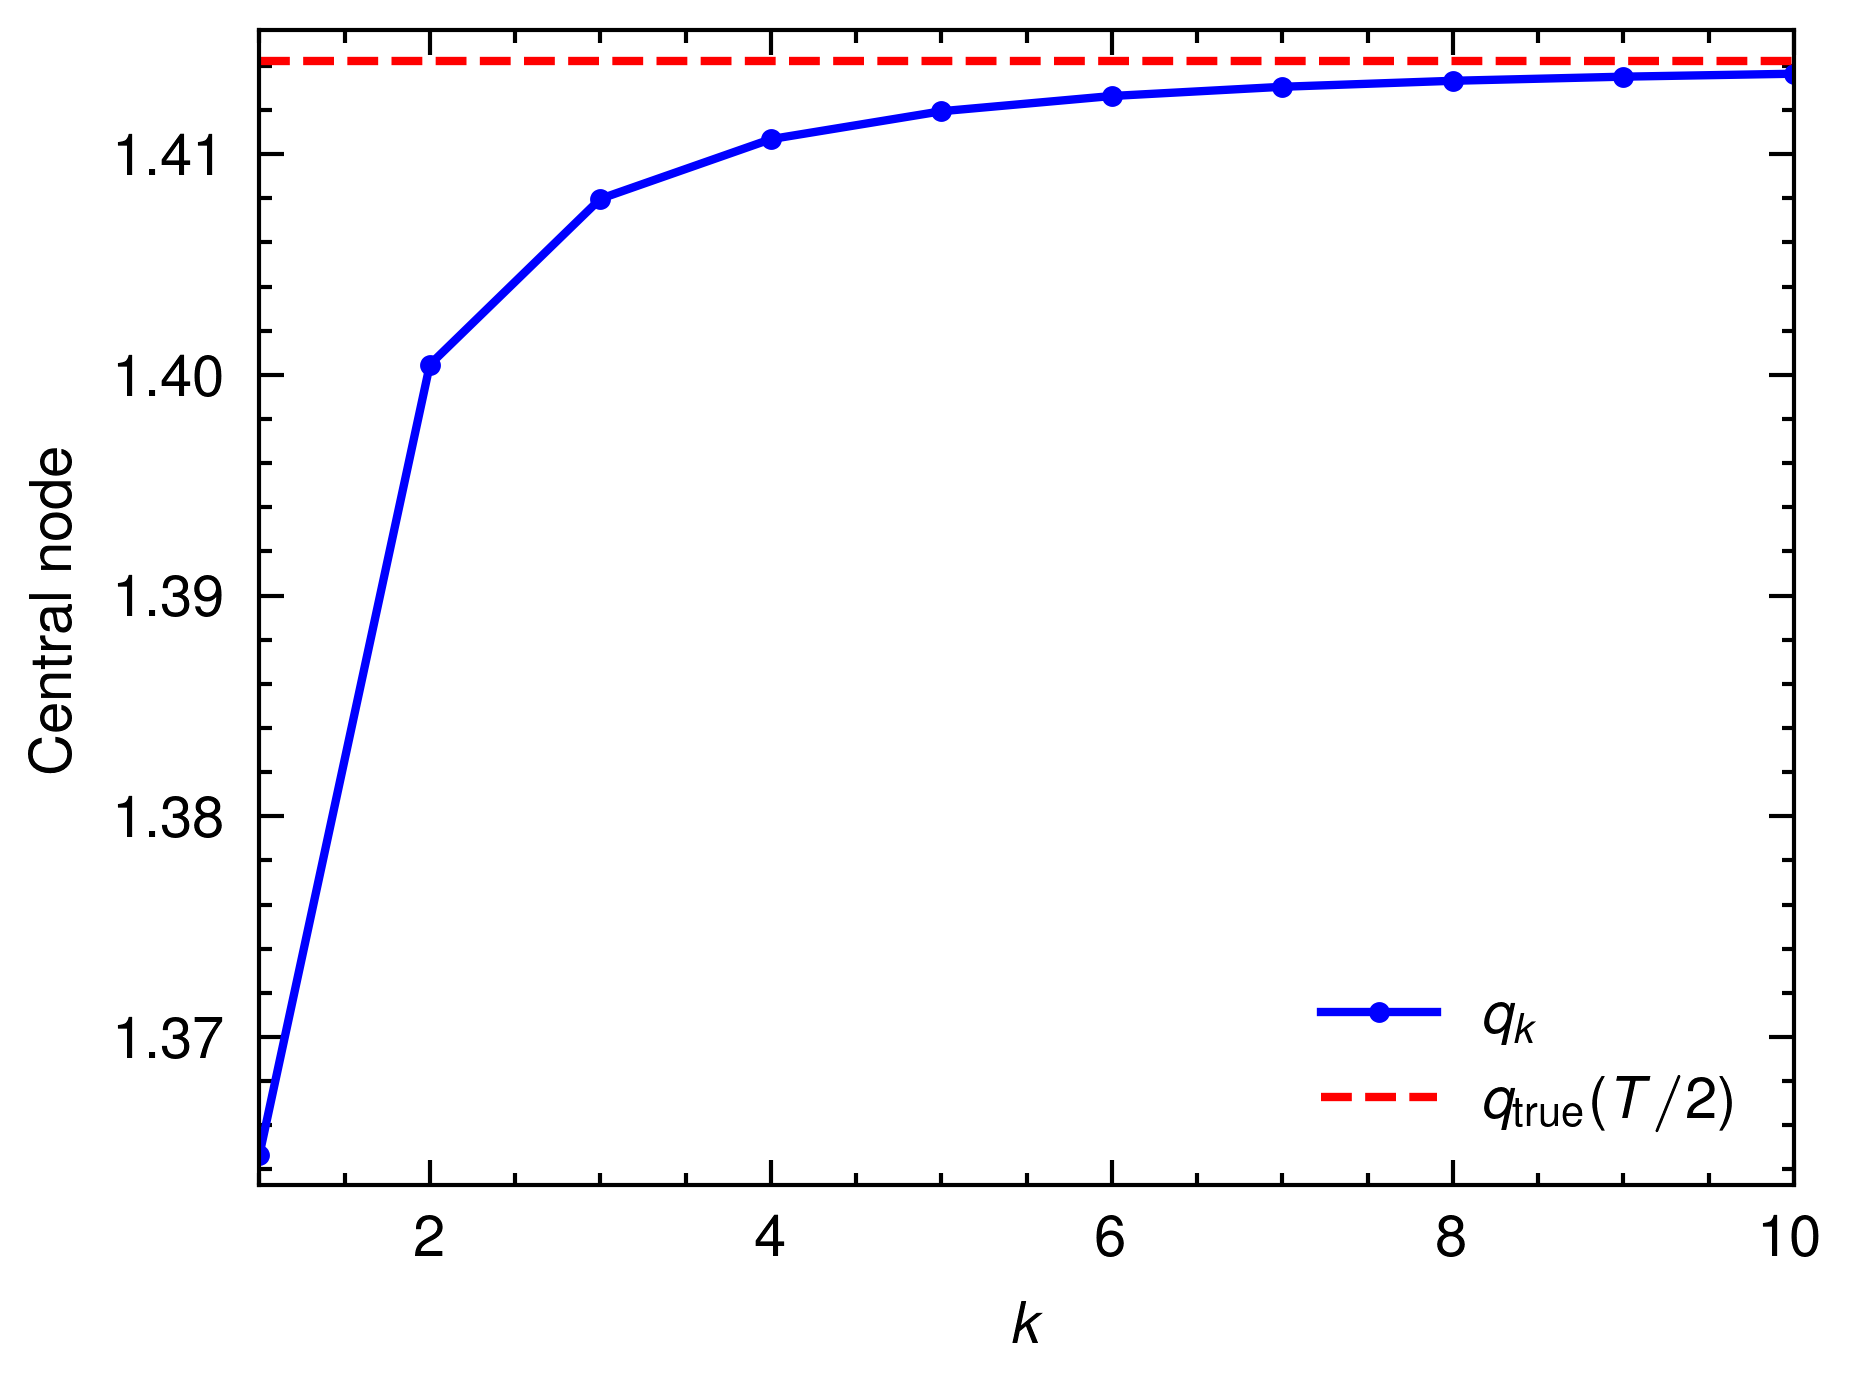
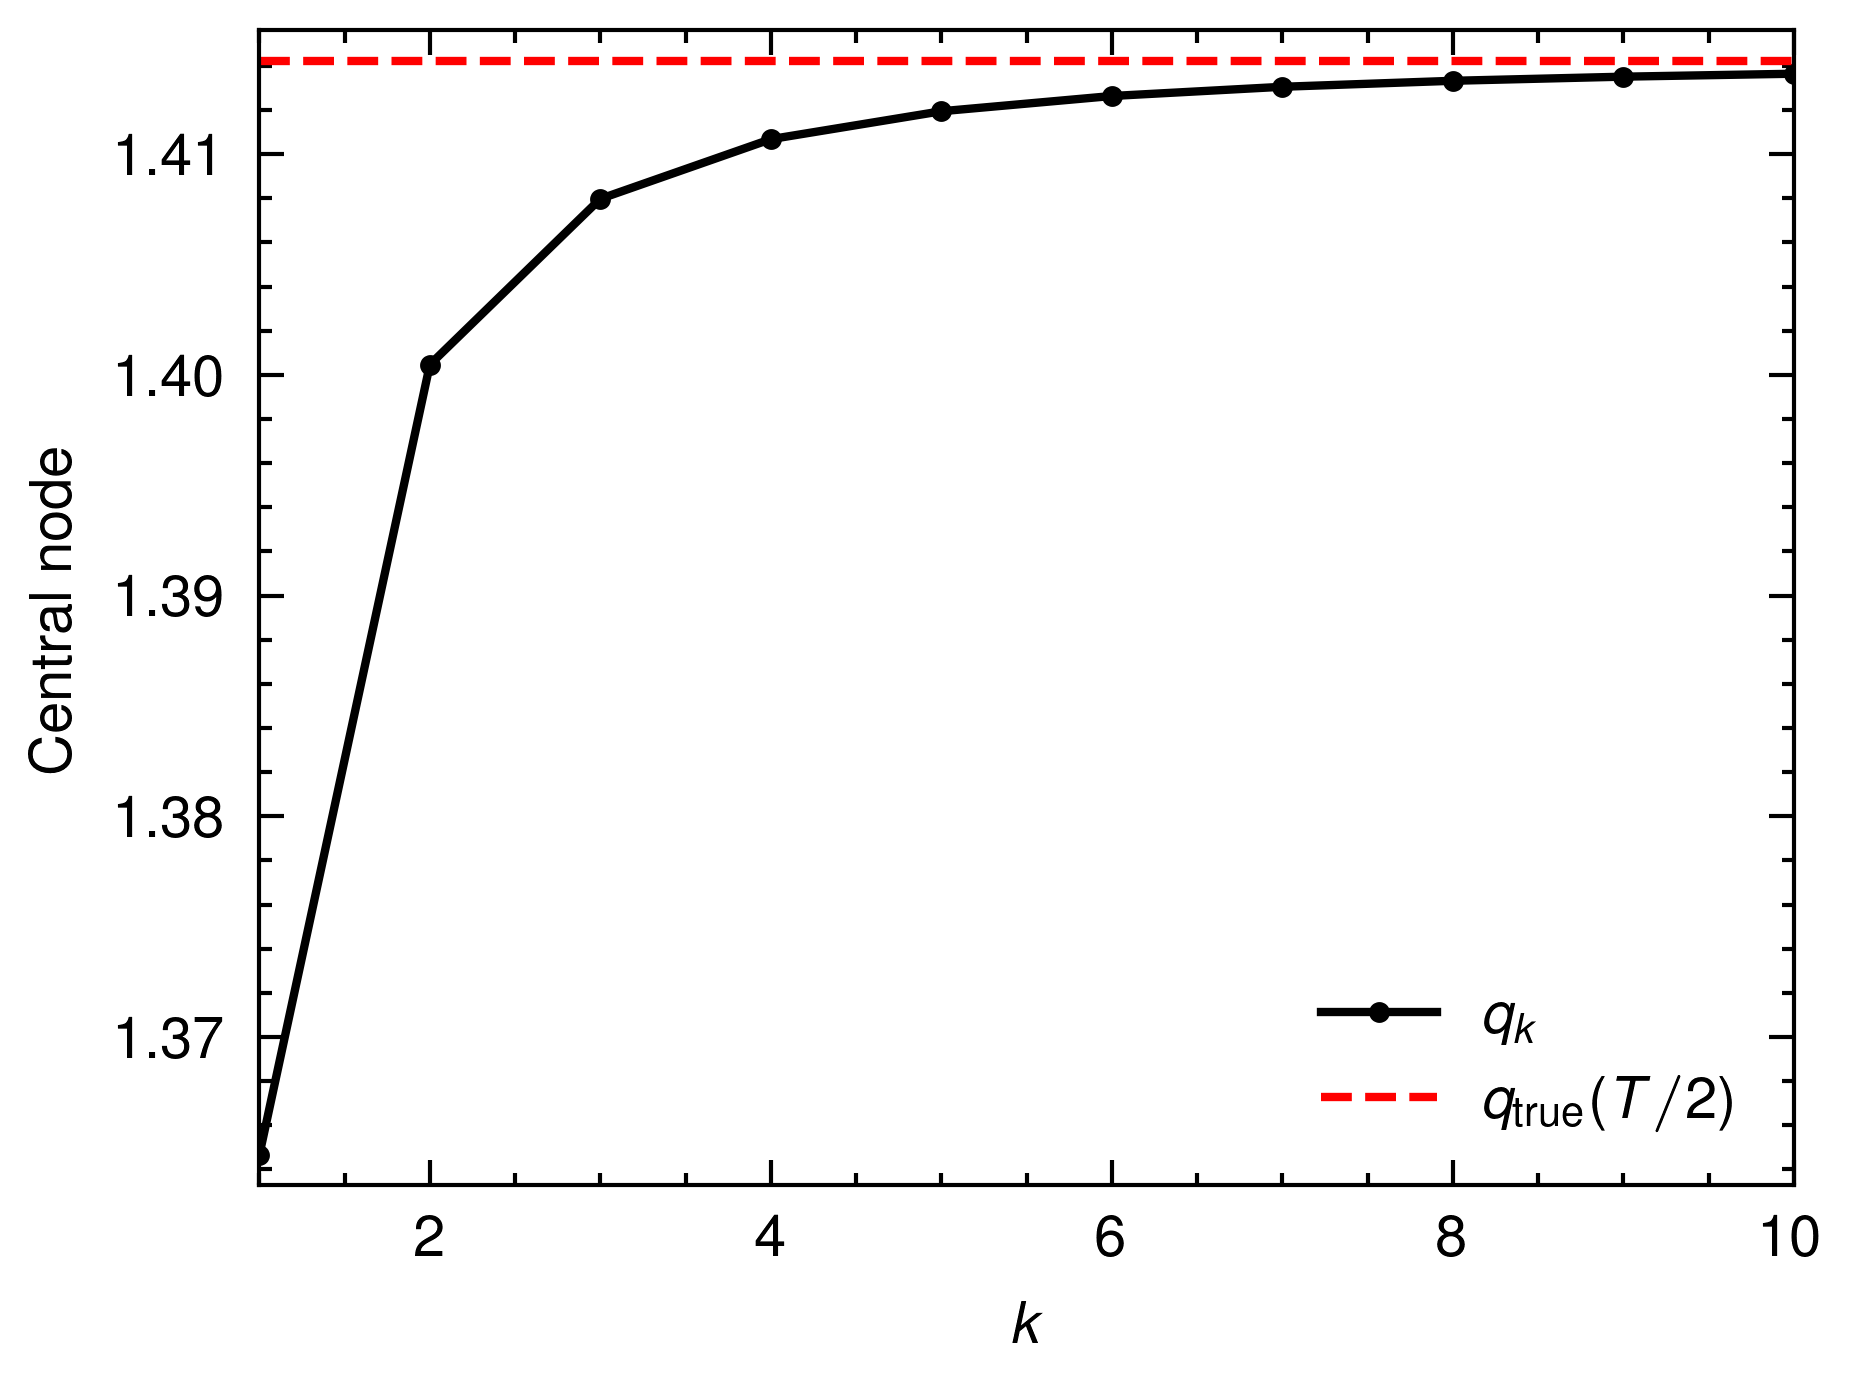
Theoretical node for Harmonic oscillator

diff --git a/theory/src/main.rs b/theory/src/main.rs
@@ -29,7 +29,6 @@ fn main() {
         .unwrap();
 
     let omega_t = PI / 2f64;
-
     let k = seq(1, 10, 1);
     let y_hat = k.fmap(|x| one_least_harmonic(x, omega_t));
     let y_true = k.fmap(|_| 1f64 / (omega_t / 2f64).cos()); 
@@ -41,6 +40,27 @@ fn main() {
     dg.write_parquet("data2.parquet", CompressionOptions::Uncompressed)
         .unwrap();
 
+    let A = 0f64;
+    let B = 20f64;
+    let omega = 1f64;
+    let T = PI / 2f64;
+    let t = linspace(0, PI / 2f64, 2usize.pow(10) + 1);
+    let mut y_true = true_harmonic(t.len()-2, omega, T, A, B);
+    y_true.push(B);
+    y_true.insert(0, A);
+    let N_vec = (1 .. 5).map(|n| 2usize.pow(n) - 1).collect::<Vec<_>>();
+
+    let mut dh = DataFrame::new(vec![]);
+    dh.push("t", Series::new(t));
+    dh.push("y_true", Series::new(y_true));
+    for (i, N) in N_vec.into_iter().enumerate() {
+        let mut y_i = least_harmonic(N, omega, T, A, B);
+        y_i.push(B);
+        y_i.insert(0, A);
+        dh.push(&format!("y_{}", i+1), Series::new(y_i));
+    }
+    dh.print();
+    dh.write_parquet("data3.parquet", CompressionOptions::Uncompressed).unwrap();
 }
 
 fn harmonic_half(x: f64) -> f64 {
@@ -75,9 +95,9 @@ fn least_harmonic(N: usize, omega: f64, T: f64, A: f64, B: f64) -> Vec<f64> {
     let mut S = 0f64;
     let mut q = vec![0f64; N];
 
-    for n in (0 .. N).rev() {
+    for n in (1 ..=N).rev() {
         S += 1f64 / (a[n] * a[n-1]);
-        q[n] = a[n-1] * (B_N + A * S);
+        q[n-1] = a[n-1] * (B_N + A * S);
     }
 
     q
@@ -90,4 +110,12 @@ fn one_least_harmonic(k: f64, x: f64) -> f64 {
     let g = (1f64 - f) / (1f64 + f);
     let theta = g.acos();
     1f64 / (k * theta).cos()
+}
+
+#[allow(non_snake_case)]
+fn true_harmonic(N: usize, omega: f64, T: f64, A: f64, B: f64) -> Vec<f64> {
+    let t = linspace(0, T, N+2);
+    let t = t[1..t.len()-1].to_vec();
+
+    t.fmap(|x| A * (omega * x).cos() + (B - A * (omega * T).cos()) / (omega * T).sin() * (omega * x).sin())
 }

diff --git a/theory/pq_plot.py b/theory/pq_plot.py
@@ -55,7 +55,7 @@ with plt.style.context(["science", "nature"]):
     fig, ax = plt.subplots()
     ax.autoscale(tight=True)
     ax.set(**pparam)
-    ax.plot(k, y_hat, 'b.-', label=r'$q_k$')
+    ax.plot(k, y_hat, 'k.-', label=r'$q_k$')
     ax.plot(k, y_true, 'r--', label=r'$q_\text{true}(T/2)$')
     ax.legend()
     fig.savefig('plot2.png', dpi=600, bbox_inches='tight')
@@ -74,3 +74,29 @@ with plt.style.context(["science", "nature"]):
     ax.axhline(y=0, color='r', linestyle='--', label=r'$\omega T = \dfrac{\pi}{2}$')
     ax.legend()
     fig.savefig('plot3.png', dpi=600, bbox_inches='tight')
+
+# Plot 3
+dh = pd.read_parquet('data3.parquet')
+
+t = dh['t']
+y_true = dh['y_true']
+t_hats = [np.linspace(0, np.pi/2, 2**i + 1) for i in range(1, 5)]
+y_hats = []
+for i in range(1, 5):
+    y_hats.append(dh[f'y_{i}'][:len(t_hats[i-1])])
+styles = ['-', '--', '-.', ':']
+
+pparam = dict(
+    xlabel = r'$t$',
+    ylabel = r'$q$',
+)
+
+with plt.style.context(["science", "nature"]):
+    fig, ax = plt.subplots()
+    ax.autoscale(tight=True)
+    ax.set(**pparam)
+    ax.plot(t, y_true, 'k', label=r'$q_\text{true}~(\omega=1, T=\frac{\pi}{2})$', alpha=0.3)
+    for i in range(1, 5):
+        ax.plot(t_hats[i-1], y_hats[i-1], styles[i-1], label=rf'$\hat{{q}} ~(N=2^{i} - 1)$', alpha=0.5)
+    ax.legend()
+    fig.savefig('plot4.png', dpi=600, bbox_inches='tight')
